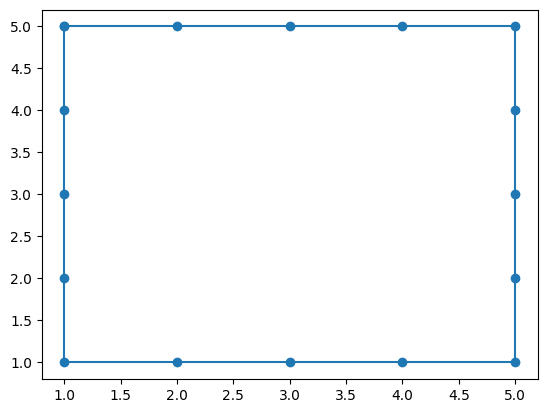
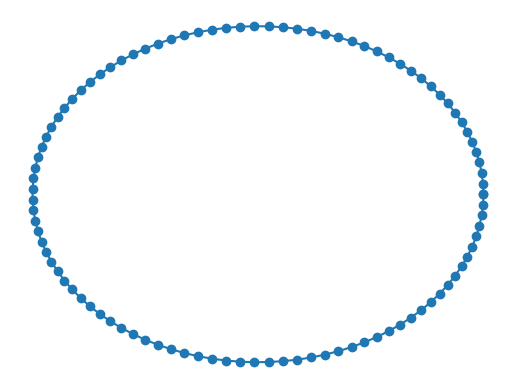
python circle added

Changed region(s): [[0.0, 0.0, 0.9942, 0.9871]]

diff --git a/plottest.py b/plottest.py
@@ -4,12 +4,28 @@ import matplotlib.pyplot as plt
 import cv2
 
 # Creating a numpy array
-X = np.array([1,2,3,4,5,5,5,5,5,4,3,2,1,1,1,1,1])
-Y = np.array([5,5,5,5,5,4,3,2,1,1,1,1,1,2,3,4,5])
+#X = np.array([1,2,3,4,5,5,5,5,5,4,3,2,1,1,1,1,1])
+#Y = np.array([5,5,5,5,5,4,3,2,1,1,1,1,1,2,3,4,5])
+
+# Creating equally spaced 100 data in range 0 to 2*pi
+theta = np.linspace(0, 2 * np.pi, 100)
+
+# Setting radius
+radius = 5
+
+# Generating x and y data
+X = radius * np.cos(theta)
+Y = radius * np.sin(theta)
 
 # Plotting point using scatter method
 plt.scatter(X,Y)
 plt.plot(X,Y)
+
+#get current axes
+ax = plt.gca()
+
+#hide axes and borders
+plt.axis('off')
 #plt.show()
 plt.savefig('plot.png', bbox_inches='tight')
 
